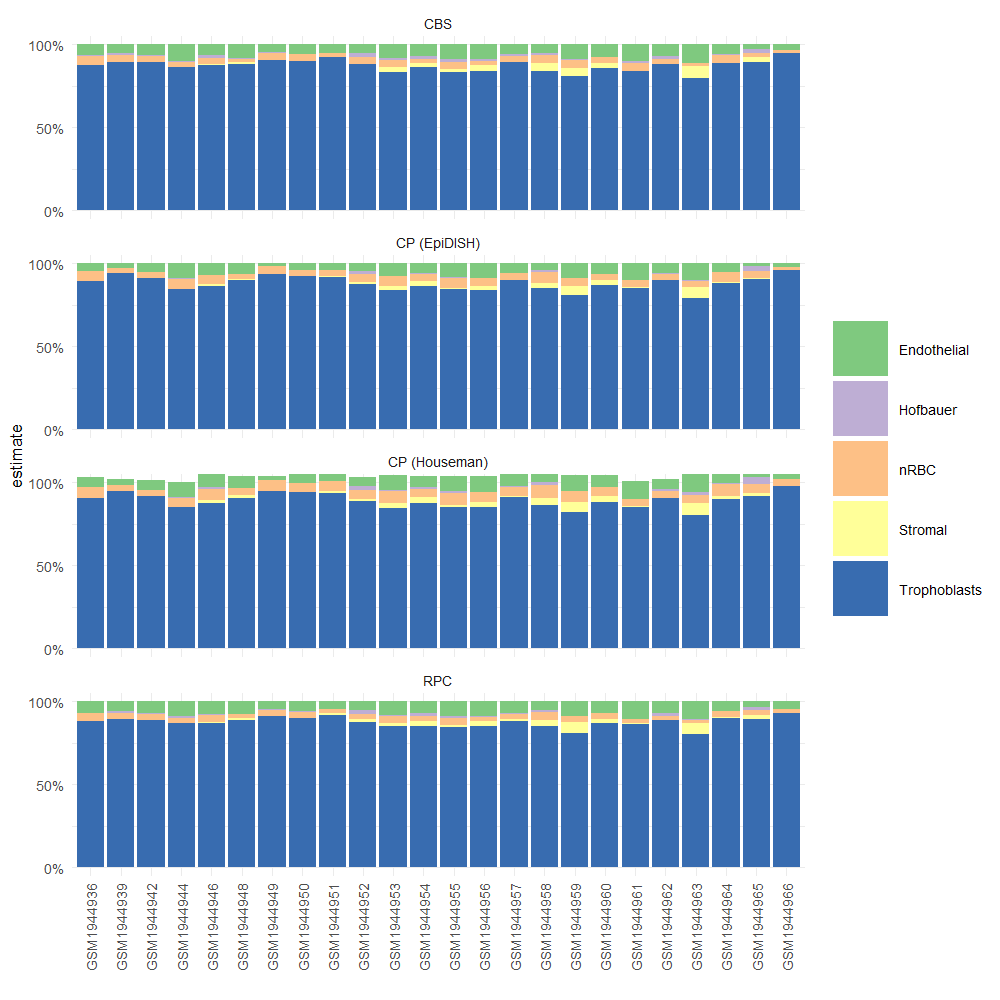
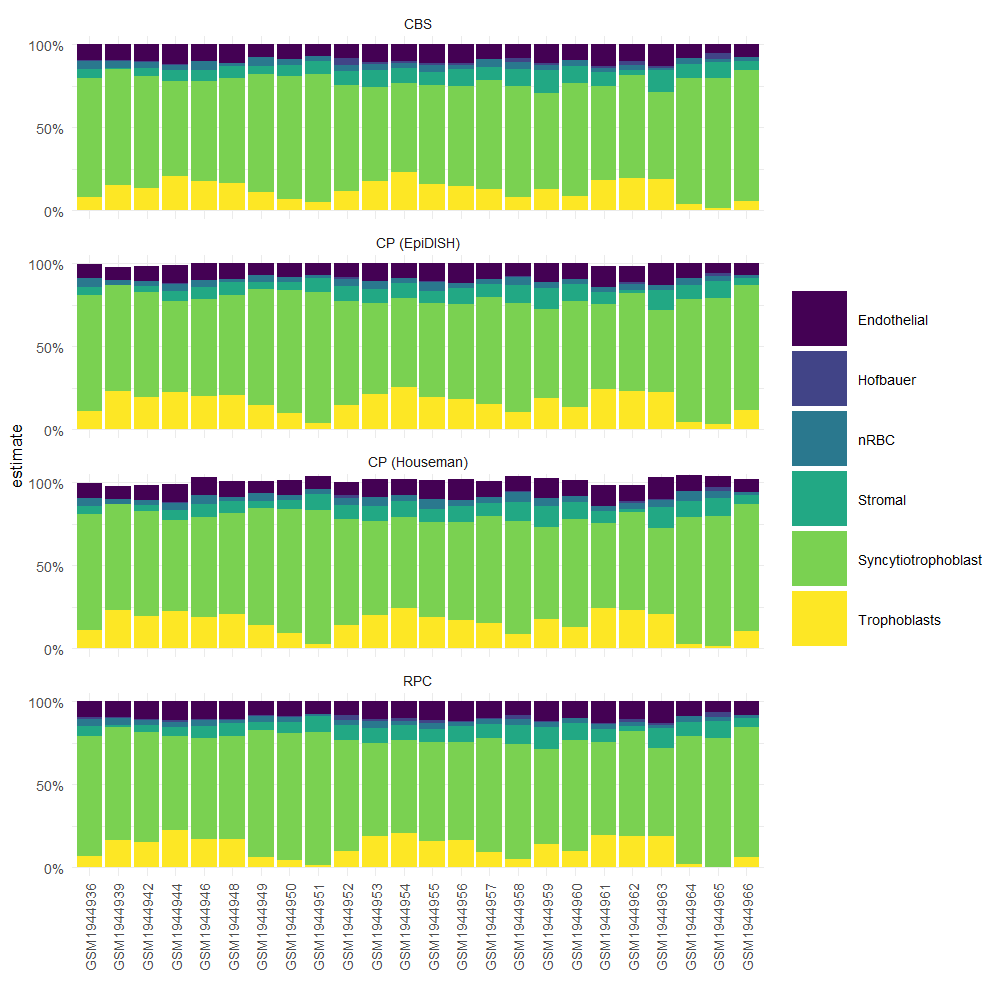
update readme
Former-commit-id: b5f601ec97471fdbf63de1c8aab78914b23912ab [formerly 800377564a784a0e21d21e617485d6d34eb56be6 [formerly 39af17c4f9529c63d331070a48c1b75950ca7389]]
Former-commit-id: 3eed52885f450c4a016bcb478aac2b12b9c1ccd6 [formerly be7e82a0b5c09f06c63cd1f0529e55c7f40ac89b]
Former-commit-id: 82281a9887e14d45a9906de65276964a7da3e19e
Former-commit-id: 32e5a449bb416297d92a0ea2946af6e2e6494cea

diff --git a/README.md b/README.md
@@ -59,7 +59,7 @@ data(pl_betas)
 data(pl_pDat)
 
 dim(pl_betas)
-#> [1] 13759    24
+#> [1] 13918    24
 head(pl_pDat)
 ```
 
@@ -121,14 +121,14 @@ results %>%
 
 | Sample\_ID | Predicted\_ethnicity\_nothresh | Predicted\_ethnicity | Prob\_African | Prob\_Asian | Prob\_Caucasian | Highest\_Prob |
 | :--------- | :----------------------------- | :------------------- | ------------: | ----------: | --------------: | ------------: |
-| GSM1944959 | Asian                          | Asian                |     0.0122143 |   0.9606649 |       0.0271208 |     0.9606649 |
-| GSM1944960 | Caucasian                      | Caucasian            |     0.0142632 |   0.1545644 |       0.8311723 |     0.8311723 |
-| GSM1944961 | Asian                          | Asian                |     0.0215369 |   0.9122843 |       0.0661789 |     0.9122843 |
-| GSM1944962 | Caucasian                      | Caucasian            |     0.0007293 |   0.0007500 |       0.9985207 |     0.9985207 |
-| GSM1944963 | Caucasian                      | Caucasian            |     0.0023903 |   0.0030573 |       0.9945524 |     0.9945524 |
-| GSM1944964 | Caucasian                      | Caucasian            |     0.0058691 |   0.0097200 |       0.9844109 |     0.9844109 |
-| GSM1944965 | Caucasian                      | Caucasian            |     0.0016010 |   0.0017434 |       0.9966556 |     0.9966556 |
-| GSM1944966 | Caucasian                      | Caucasian            |     0.0009399 |   0.0015500 |       0.9975101 |     0.9975101 |
+| GSM1944959 | Asian                          | Asian                |     0.0123073 |   0.9523544 |       0.0353383 |     0.9523544 |
+| GSM1944960 | Caucasian                      | Caucasian            |     0.0156961 |   0.1595213 |       0.8247827 |     0.8247827 |
+| GSM1944961 | Asian                          | Asian                |     0.0208421 |   0.8954518 |       0.0837061 |     0.8954518 |
+| GSM1944962 | Caucasian                      | Caucasian            |     0.0009276 |   0.0008801 |       0.9981923 |     0.9981923 |
+| GSM1944963 | Caucasian                      | Caucasian            |     0.0022635 |   0.0028007 |       0.9949358 |     0.9949358 |
+| GSM1944964 | Caucasian                      | Caucasian            |     0.0065973 |   0.0112013 |       0.9822014 |     0.9822014 |
+| GSM1944965 | Caucasian                      | Caucasian            |     0.0021578 |   0.0024196 |       0.9954226 |     0.9954226 |
+| GSM1944966 | Caucasian                      | Caucasian            |     0.0011397 |   0.0017651 |       0.9970952 |     0.9970952 |
 
 </div>
 
@@ -227,6 +227,7 @@ pl_pDat %>%
 #> [1] "558 of 558 predictors present."
 #> [1] "546 of 546 predictors present."
 #> [1] "395 of 395 predictors present."
+#> `geom_smooth()` using formula 'y ~ x'
 ```
 
 <img src="man/figures/README-pl_infer_age-1.png" width="100%" /> *GA:
@@ -240,19 +241,26 @@ package as `pl_cell_cpgs_third` and `pl_cell_cpgs_first` for third
 trimester (term) and first trimester samples, respectively.
 
 In this example we are using term villi DNAm data, so we first load the
-reference cpgs `pl_cell_cpgs_third`. This is a data frame of 500 cpgs,
+reference cpgs `pl_cell_cpgs_third`. This is a data frame of 600 cpgs,
 with mean methylation levels for each cell type.
 
 ``` r
 data('pl_cell_cpgs_third')
 head(pl_cell_cpgs_third)
 #>            Trophoblasts   Stromal  Hofbauer Endothelial      nRBC
-#> cg10590657    0.1014098 0.9345796 0.9016368   0.8963641 0.8448382
-#> cg14923398    0.1282030 0.8902107 0.9339555   0.9383641 0.9508709
-#> cg05348366    0.1305697 0.9519820 0.9088860   0.9065136 0.9278057
-#> cg11862144    0.1561991 0.9430855 0.9419634   0.9341671 0.9647331
-#> cg17907628    0.1215249 0.9278777 0.9036880   0.8914412 0.9143601
-#> cg11552829    0.1436501 0.8783793 0.9561899   0.9446054 0.9490943
+#> cg10590657    0.1014098 0.9345796 0.8655285   0.8963641 0.8448382
+#> cg14923398    0.1282030 0.8902107 0.9036769   0.9383641 0.9508709
+#> cg05348366    0.1305697 0.9519820 0.8803082   0.9065136 0.9278057
+#> cg17907628    0.1215249 0.9278777 0.8727841   0.8914412 0.9143601
+#> cg26799656    0.1259953 0.9482014 0.8803863   0.8791004 0.9010419
+#> cg11862144    0.1561991 0.9430855 0.9114967   0.9341671 0.9647331
+#>            Syncytiotrophoblast
+#> cg10590657          0.05460441
+#> cg14923398          0.05383193
+#> cg05348366          0.06546727
+#> cg17907628          0.05325227
+#> cg26799656          0.06823985
+#> cg11862144          0.06044207
 ```
 
 After our reference cpg data is loaded, we can estimate cell composition
@@ -271,13 +279,20 @@ houseman_estimates <- minfi:::projectCellType(
   lessThanOne = FALSE)
 
 head(houseman_estimates)
-#>            Trophoblasts      Stromal     Hofbauer Endothelial       nRBC
-#> GSM1944936    0.9036406 0.000000e+00 0.0001173050  0.05715579 0.06975103
-#> GSM1944939    0.9467667 0.000000e+00 0.0006780647  0.03398968 0.03850730
-#> GSM1944942    0.9165590 4.470134e-19 0.0000000000  0.05881142 0.03790619
-#> GSM1944944    0.8493527 1.017575e-03 0.0070579159  0.09159188 0.05578747
-#> GSM1944946    0.8747275 2.122237e-02 0.0109528806  0.08365519 0.06530729
-#> GSM1944948    0.9081046 1.539855e-02 0.0000000000  0.07604194 0.04153465
+#>            Trophoblasts    Stromal      Hofbauer Endothelial       nRBC
+#> GSM1944936    0.1091279 0.04891919  0.000000e+00  0.08983998 0.05294062
+#> GSM1944939    0.2299918 0.00000000 -1.806592e-19  0.07888007 0.03374149
+#> GSM1944942    0.1934287 0.03483540  0.000000e+00  0.09260353 0.02929310
+#> GSM1944944    0.2239896 0.06249135  1.608645e-03  0.11040693 0.04447951
+#> GSM1944946    0.1894152 0.07935955  0.000000e+00  0.10587439 0.05407587
+#> GSM1944948    0.2045124 0.07657717  0.000000e+00  0.09871149 0.02269798
+#>            Syncytiotrophoblast
+#> GSM1944936           0.6979477
+#> GSM1944939           0.6377822
+#> GSM1944942           0.6350506
+#> GSM1944944           0.5467642
+#> GSM1944946           0.6022329
+#> GSM1944948           0.6085825
 ```
 
 #### EpiDish
@@ -309,6 +324,9 @@ epidish_CP <- epidish(
 We can compare the different cell composition estimates.
 
 ``` r
+library(viridis)
+#> Loading required package: viridisLite
+
 bind_rows(houseman_estimates %>% as.data.frame %>% mutate(algorithm = 'CP (Houseman)'),
           epidish_RPC$estF %>% as.data.frame %>% mutate(algorithm = 'RPC'),
           epidish_CBS$estF %>% as.data.frame %>% mutate(algorithm = 'CBS'),
@@ -323,7 +341,7 @@ bind_rows(houseman_estimates %>% as.data.frame %>% mutate(algorithm = 'CP (House
   ggplot(aes(x = sample, y = estimate, fill = component)) +
   geom_bar(stat = 'identity') +
   facet_wrap(~algorithm, ncol = 1) +
-  scale_fill_brewer(palette = 'Accent') +
+  scale_fill_viridis_d() +
   theme_minimal(base_size = 5) +
   scale_y_continuous(limits = c(-0.1,1.1), breaks = c(0, 0.5, 1), labels = scales::percent) +
   theme(axis.text.x = element_text(angle = 90, vjust = 0.5)) +
